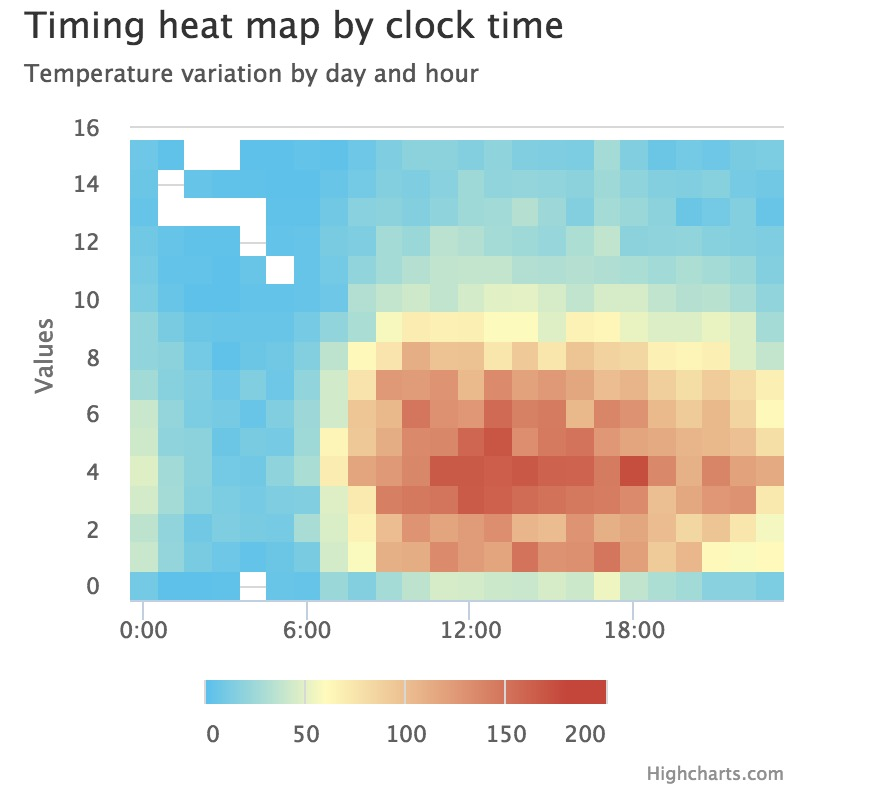
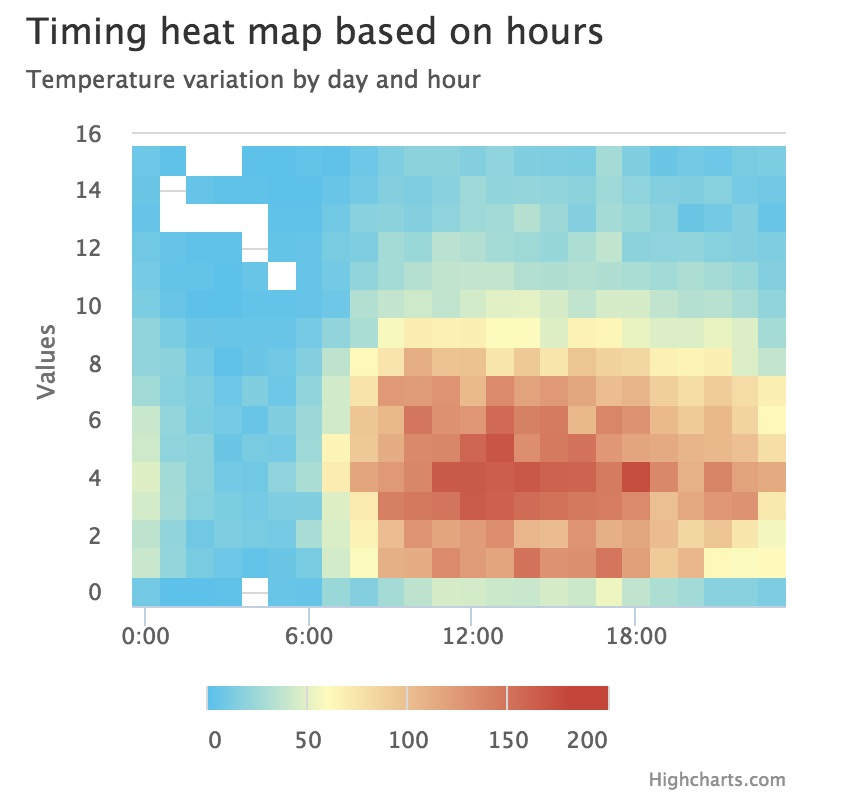
update

diff --git a/index.html b/index.html
@@ -28,7 +28,7 @@ $.ajax({
 
 
     title: {
-      text: 'Timing heat map by clock time',
+      text: 'Timing heat map based on hours',
       align: 'left'
     },
 
